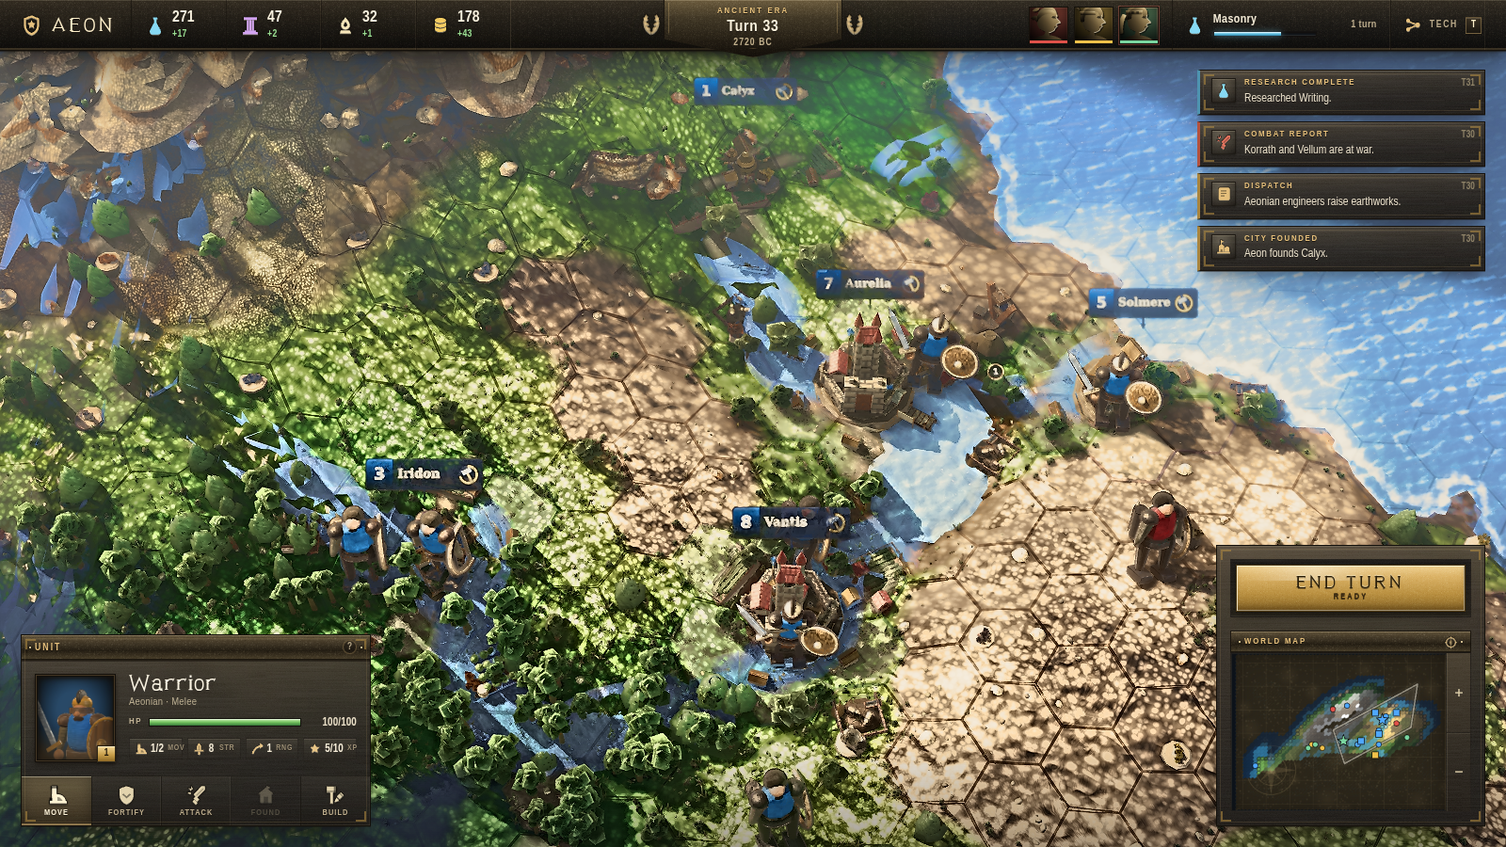
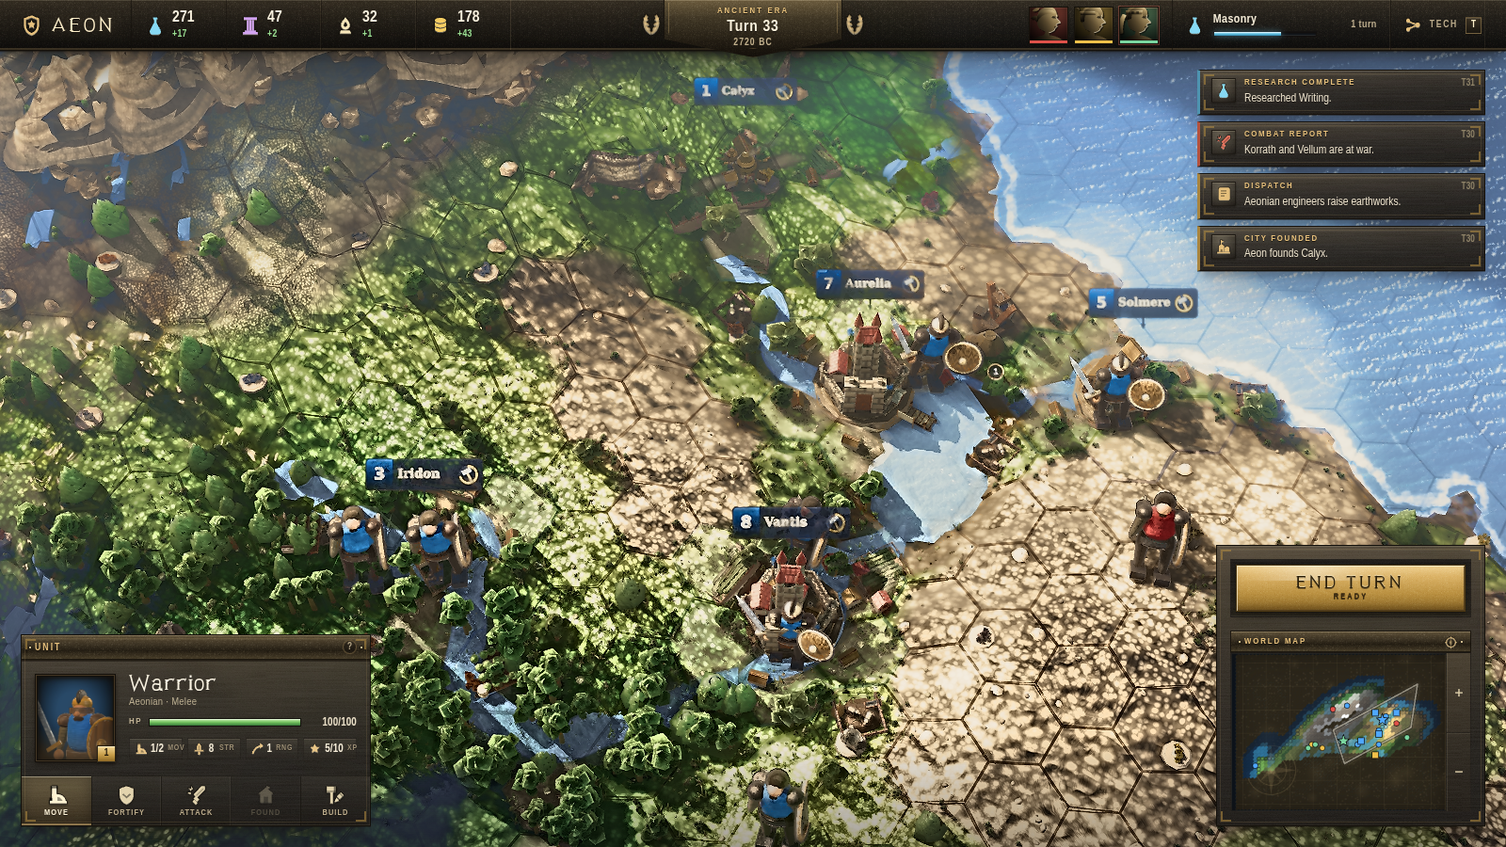
release: re-shot hero/wide/close from the champion build, and an honest status for the tournament gate

diff --git a/docs/RESUME.md b/docs/RESUME.md
@@ -1,108 +1,133 @@
-# Resume notes — paused 2026-08-25 (end of phase 10)
+# Resume notes — paused 2026-08-25 (end of phase 11)
 
 ## State
-The referee scores the whole frame on six independent axes. Standing frame at HEAD:
+The gate is a **tournament**, not a score. Each attempt is rendered at 1600x900, put side by side
+with the reigning champion frame, and shown to two independent judges with the labels in opposite
+order so position cannot bias them. It is accepted only if **both** judges pick the challenger;
+otherwise `git` reverts it and the champion stands. There is no current score and no referee —
+absolute scoring was retired at the start of this phase (see *Why scoring was retired*).
 
-| axis | score | what it measures |
-|---|---|---|
-| lighting | **20** / 30 | cast shadows landing, contact AO, one unifying sun, shadow hue near the lit hue |
-| material | **8** / 20 | world-space detail shrinking with distance, no confetti, no flat-matte |
-| readability | **9** / 15 | hex grid legible everywhere incl. mountains, biomes distinguishable |
-| units | **6** / 15 | silhouettes nameable at gameplay zoom, grounded, not clay |
-| colour | **6** / 10 | palette compliance, no cast, aerial perspective lighter-cooler-desaturated |
-| finish | **8** / 10 | no mesh holes, blown voids, aliasing, streaks, z-fighting, clipped UI |
-| **total** | **57** / 100 | best recorded; scored on `shots/verify-57.png`, which is the same build as the released frames |
-
-- `node tools/sim.mjs` passes: 260 turns, 26 cities, pop 4->341, 57 units, the 32-tech tree exhausted by
-  three of four civs, 11 wars and 6 peaces, 14449 pathed tiles with 0 read through fog,
-  culture victory to Vellum. Worst turn 15 ms.
-- `npx vite build` succeeds; GitHub Actions rebuilds `dist/` on push and deploys it.
+- Champion build = `HEAD` (`74ecef7`). Champion frame = `shots/final-hero.png`; the local
+  `shots/champion.png` is the same build and framing (gitignored, so the released hero frame is the
+  copy that travels).
+- `node tools/sim.mjs` passes: 260 turns in 3.3 s (worst turn 13 ms), 26 cities, pop 4->341, 57
+  units, the 32-tech tree exhausted by three of four civs, 11 wars and 6 peaces, 14449 pathed tiles
+  with 0 read through fog, culture victory to Vellum.
+- `npx vite build` succeeds: 25 modules, 1289 kB / 394 kB gzipped, 0.5 s. GitHub Actions rebuilds
+  `dist/` on push and deploys it.
 - Released frames: `shots/final-hero.png`, `shots/final-wide.png`, `shots/final-close.png`
   (1600x900, directed via `?shot=hero|wide|close`; each captured `blank:false errors:[]`).
-- The objective gate still **FAILS** on the released frame:
+- The objective gate still **FAILS**, but on three counts instead of seven:
 
   `node tools/metrics.mjs shots/final-hero.png 200,120,200,140:far-rock 700,430,200,140:mid-sand
   620,700,240,160:near-sand 1200,300,240,160:water`
 
   | region | mean | sat | hue | HF_rms | MID/HF |
   |---|---|---|---|---|---|
-  | far-rock | 121.3 | 0.317 | 34.5 | 14.64 | 1.00 |
-  | mid-sand | 100.0 | **0.460** | 65.5 | **23.69** | 1.10 |
-  | near-sand | 116.8 | **0.467** | 51.5 | **22.61** | **1.36** |
-  | water | 131.1 | 0.421 | 209.2 | **3.52** | **3.92** |
+  | far-rock | 115.3 | 0.290 | 33.1 | 14.12 | 1.01 |
+  | mid-sand | 97.2 | 0.430 | 66.9 | **23.70** | 1.07 |
+  | near-sand | 117.6 | 0.436 | 52.1 | **22.98** | **1.36** |
+  | water | 129.2 | 0.380 | 210.2 | 9.09 | 1.19 |
 
-  near/far HF ramp **1.54** (need >= 1.6) - crushed 0.07 - blown 0.00. Seven failures: mid-sand and
-  near-sand HF over the 22 confetti ceiling, near-sand MID/HF over 1.3 (blurry blobs), near-sand
-  saturation over the 0.46 ceiling, water HF under the 7 floor and its MID/HF at 3.92 (a flat sheet
-  with no material at all), and the ramp. Clipping and shadow-hue coherence are the two things that
-  pass cleanly. The water box lands on open sea clear of the notification rail — check that before
-  trusting any number from it.
+  near/far HF ramp **1.63** (need >= 1.6) — passing for the first time in the project — crushed
+  0.08, blown 0.00. The three remaining failures are all near-camera ground: mid-sand and near-sand
+  HF over the 22 confetti ceiling, near-sand MID/HF over 1.3. Water, land saturation, the ramp and
+  both ends of the histogram now pass clean. The water box lands on open sea clear of the
+  notification rail — check that before trusting any number from it.
 
-## Outstanding defects, in referee priority order
-1. **Ground material is screen-space, not world-space** (material 8/20, the weakest axis). The
-   referee measured the near/far HF ramp at 1.34–1.59 across its own boxes against the 1.6
-   requirement, near sand and hills at HF 26–29 (confetti), and the far plain collapsed the other way
-   to HF 5 at MID/HF 2.13 (blurry nothing); the gate's standard boxes on the released frame give ramp
-   1.54 and near/mid sand HF 22.6/23.7. Both ends are the same bug: detail drawn at pixel scale
-   instead of at a fixed world size. One triplanar world-space detail set with honest mips fixes both
-   at once — per-region noise never will.
-2. **The hex grid vanishes across the mountain band** — roughly a third of the frame with no
-   clickable tile boundary. Art-bible non-negotiable #1, and still broken after five dedicated
-   passes. Terrain must leave value headroom, the grid must adapt alpha to the surface, post must
-   crush neither.
-3. **Mountains are intersecting flat shards.** Hard polygon seams, adjacent faces disagreeing about
-   the sun direction, paper-white snow caps and a milky near-white void at the summits. Light
-   describes no volume up there.
-4. **Land saturation runs hot against the locked palette.** Grass measures 0.45–0.55 against the
-   bible's 0.30–0.42, sand 0.42–0.47 against desert's 0.24–0.34, and open ocean sits at coast
-   brightness instead of #123A63. The palette is documented; it is simply not being hit.
-5. **Rivers read as hard-edged unlit cyan cutouts** with a translucent slab over the tiles. Bed the
-   channel into the terrain, light it, delete the slab.
-6. **Units still do not name themselves at gameplay zoom** (6/15, up from 3/15). In
-   `final-close.png` the figures resolve into sword-and-shield soldiers; in `final-hero.png` — the
-   distance a player actually plays at — an occupied tile is a strength badge and a contact ring
-   over a mound.
+  For reference, the phase 10 release measured seven failures: ramp 1.54, water HF 3.52 at
+  MID/HF 3.92, near-sand sat 0.467, mid/near-sand HF 23.69/22.61, near-sand MID/HF 1.36.
+
+## Phase 11: the tournament, and what it unstuck
+
+| pass | outcome |
+|---|---|
+| terrain/post — restore the massif palette + world-space summit structure the score gate had reverted | restored by hand (`6a17231`); this is the change that triggered the switch |
+| terrain — rock gets its mineral chroma back, one warm family, strata stay value | accepted (`6fa36aa`) |
+| water — a pixel band the sea can keep, glitter back in its lobe, the river's gravel slab becomes a wet margin | accepted (`1d9da36`) |
+| massif — one closed summit mass per hex welded to the hex field, real instance normals, snow off the tonemap shoulder, a hex seam that survives on rock | accepted, **promoted to champion** (`a1d024f`) |
+| units — helmet over the head, sword off the float, shield fitted, idle facing, no TAA ghosting | **lost the tournament, reverted whole** (`74ecef7`) |
+
+Three of the four passes actually gated by a tournament landed, on defects that had eaten nine
+straight attempts under scoring — mountains, terrain material and water each failed alone in phases
+8-10 and each landed here.
+
+### Why scoring was retired
+The referee's per-axis noise was about a point and its whole-frame noise about three, which is the
+size of a real improvement. Twice that noise threw away the best frame the project had rendered and
+both had to be restored by hand: `14fb0ff` (units a2, discarded by phase 9's strict no-axis-drop
+rule) and `6a17231` (the massif palette + summit structure, discarded by phase 10's 1-point axis
+slack over readability noise). A gate that has to be manually overruled twice is not a gate.
+
+Paired comparison removes the number entirely and asks the question the project is actually judged
+on. It is far less noisy, and it has one property worth planning around: **a change that improves
+one thing while visibly costing another will lose two votes.** The units pass was reverted whole for
+that — the cast improved and something else in the frame did not survive the trade. Aim for a frame
+that is unambiguously better everywhere, and change less rather than more.
+
+## Outstanding defects, in priority order
+Judge verdicts are not archived — only the accept/revert decision reaches git — so this list is what
+the champion frame and the objective gate show, with the pass that lost the last comparison first.
+
+1. **Units are giants with no arms.** The one pass since the champion was crowned was a units pass
+   and it lost. Scale is the loudest part: in `final-close.png` the garrison soldier stands as tall
+   as Aurelia's keep tower, and in `final-wide.png` a single soldier is the height of the walled
+   town beside him. His sword and shield hang at his sides with no arm reaching either one. At
+   gameplay distance the same figure collapses to a strength badge and a contact ring over a mound.
+   Two things to know before re-trying this: the three commits still in history at `07601c1` fixed
+   the helmet, the sword and the shield and still lost the comparison, so find what else they cost;
+   and none of them touched scale. The one attempt that did (`33dec79`, "a soldier is smaller than
+   the keep he garrisons") was reverted under phase 9's Pareto gate and has never been re-run
+   against a tournament.
+2. **The near field is confetti over blobs.** All three surviving gate failures are in the two sand
+   boxes nearest the camera: HF 23.70 and 22.98 against a 22 ceiling, MID/HF 1.36 against 1.3. The
+   distance falloff is finally fixed (ramp 1.63), so this is no longer the old "screen-space
+   material" bug across the whole frame — it is one band. Near ground reads as leopard-spot
+   mottling at cloud-shadow scale with pixel fizz on top, instead of grain at a nameable world size.
+3. **Mountains are the right shape on the wrong rock.** The massif pass gave them a closed summit
+   mass per hex, correct instance normals and a hex seam that survives on rock — all new, all real.
+   They now read as tan sandstone wedges: far-rock measures sat 0.29 at hue 33 against the locked
+   mountain `#7A7368` (sat 0.08-0.18), shard edges stay hard, and the snow caps are flat
+   paper-white triangles rather than lit volume.
+4. **Per-biome palette compliance.** Whole-frame saturation is inside the metrics band now, but the
+   bible is written per biome and sand at 0.43 is well over desert's 0.24-0.34. Open ocean at mean
+   129 is nearer coast brightness than the specified `#123A63`.
+5. **Rivers.** The translucent slab is thinner and the bank is a wet margin now, but the channel is
+   still a chain of flat angular plates laid along the hex edges rather than a bed cut into the
+   terrain, and it takes no sun. Green props also intersect it in the Aurelia reach.
+6. **The hex seam on rock is present but faint.** Non-negotiable #1 is no longer outright broken
+   across the mountain band, which is new — but the line there is far weaker than on grass and it
+   loses wherever the rock goes bright.
+
+No one has yet put the champion frame beside a real Civ VI screenshot under tournament rules. The
+last time that comparison was run the judge picked the real one immediately, and nothing here
+suggests that has changed.
 
 ## What is working — do not re-roll it
-One unifying warm key with the shadow hue within 1–3° of the lit hue; correct aerial perspective on
-land; the hex grid on grass, sand and plains; coast foam; the Aurelia keep silhouette; the HUD with
-zero clipping; crushed 0.07 / blown 0.00.
-
-## Phase 10: the gate loosened, and the best frame came back
-Phase 9's gate — accept only if **no axis drops and one gains ≥ 2** — had reverted the best frame
-the project ever rendered (units a2: +8 total across three axes, −1 material). Phase 10 replaced it
-with a bounded trade: **accept if the total gains ≥ 3 and no axis drops by more than 1**, judge
-noise being worth about a point.
-
-| pass | attempts | outcome |
-|---|---|---|
-| units (restore a2) | 1 | **accepted**, 49 → **57** — units 3 → 6, lighting 18 → 20, finish 5 → 8, material 9 → 8 |
-| mountains | 3 | all reverted (`c2178e0`) |
-| terrain/post material | 3 | all reverted (`f925287`) |
-| water | 3 | all reverted (`ea993fb`) |
-
-The loosened gate did exactly one thing and did it well: it let back in a change the strict rule had
-thrown away, worth +8. It then held against nine attempts on the three biggest defects, none of
-which cleared +3. Attempt frames are kept as `shots/p10-<pass>-a<n>.png` next to
-`shots/revert-check-<pass>.png`, so the next phase can see what has already been tried on mountains,
-material and water before trying it again.
+One unifying warm key with the shadow hue within a couple of degrees of the lit hue; correct aerial
+perspective on land; the hex grid on grass, sand and plains; coast foam and the shore read; the open
+sea's swell band and its glitter lobe (new this phase, and the water region passes the gate for the
+first time); the massif's closed summit masses; the Aurelia keep silhouette; the HUD with zero
+clipping; crushed 0.08 / blown 0.00.
 
 ## What was learned (do not re-litigate)
-- Parallel agents on shared visual files oscillate: phases 1-6 went 61 → 34 → 22. Sequential
-  single-owner passes with a git revert gate produced the only monotonic gain (34 → 50 → 57).
-- One-sided metric targets get gamed: "HF_rms ≥ 12" was met by spraying per-pixel noise.
+- Parallel agents on shared visual files oscillate: phases 1-6 went 61 -> 34 -> 22. Sequential
+  single-owner passes with a git revert gate produced the only monotonic gain.
+- One-sided metric targets get gamed: "HF_rms >= 12" was met by spraying per-pixel noise.
   `tools/metrics.mjs` now bounds detail on both sides and requires a near/far detail ramp.
-- A gate has to be able to ratchet. A strict per-axis "no axis may drop" rule against a judge whose
-  per-axis noise is about ±1 rejects every real trade — it cost this project its best frame for two
-  phases. Bounded trade (Σ ≥ +3, no single axis worse than −1) ratchets without letting an axis be
-  quietly sold off.
-- Three consecutive passes reverting nine of nine attempts is the gate working, not the gate stuck —
-  but it also says the remaining defects are not one-file fixes. Mountains, material and water each
-  failed alone; the ranked list above is coupled (grid legibility depends on terrain value headroom,
-  which depends on the grade).
+- **A scoring gate is only as good as its noise floor.** A judge with +-3 on the total cannot
+  adjudicate a +2 change; it will reject real work and occasionally accept regressions. Every
+  variant of the score gate this project tried — no-axis-drop, Pareto, bounded trade — was an
+  attempt to work around noise it could not remove.
+- **Paired comparison removes the noise instead of budgeting for it.** "Which of these two is
+  better" is a far easier question than "how many points is this out of 100", and two judges with
+  the labels swapped kills position bias. Phase 11 accepted three passes on defects that had gone
+  0-for-9 under scoring.
+- The price of paired comparison is that partial wins lose. There is no "+3 total, -1 on one axis"
+  any more; anything visibly worse anywhere loses a vote and the attempt dies. Change less.
 - The screenshot harness must wait on rendered-frame count, not wall-clock: at ~1 fps under
-  software WebGL a timed wait captures an unconverged TAA frame, which produced dozens of
-  bogus "near-field is blurry" critiques.
+  software WebGL a timed wait captures an unconverged TAA frame, which produced dozens of bogus
+  "near-field is blurry" critiques.
 - `?nopost=1` renders the raw scene — the fastest way to tell a shading bug from a post bug.
 - The standard metrics boxes assume a 1600x900 capture. At the 1200x675 fast-loop size `620,760` is
   off-canvas and `1150,200` lands on the notification rail, so the gate silently measures UI.
@@ -112,3 +137,5 @@ material and water before trying it again.
    `setsid nohup npx vite --port 5173 --strictPort >/tmp/vite.log 2>&1 &`
 2. Confirm it renders: `node tools/shot.mjs shots/check.png 1600 900` (~2 min, waits for TAA convergence)
 3. Read `docs/ART-BIBLE.md` (LOCKED) and `docs/CONTRACT.md` before touching any renderer file.
+4. The frame to beat is `shots/final-hero.png`. Shoot the challenger at the same size and framing,
+   show both to two judges with the labels in opposite order, and keep it only if both pick it.

diff --git a/README.md b/README.md
@@ -73,50 +73,88 @@ generated a long run of bogus "the near field is blurry" critiques before anyone
 The **game** is done: a full match plays start to finish, the 260-turn headless simulation passes
 every invariant, and `npx vite build` ships a static bundle.
 
-The **renderer** is closer than it was, and still not there. A referee agent scores the frame against
-a real Civilization VI screenshot on six independent axes; the current frame stands at **57/100**:
+The **renderer** is closer than it was and still not there — but it moved this phase, after nine
+straight attempts that could not land anything. The reason was the gate.
 
-| lighting | material | readability | units | colour | finish | total |
-|---|---|---|---|---|---|---|
-| 20/30 | **8/20** | 9/15 | 6/15 | 6/10 | 8/10 | **57/100** |
+### Scoring is retired; the gate is a tournament
 
-What holds up: one unifying warm key with the shadow hue within a couple of degrees of the lit hue,
-correct aerial perspective on land, the hex grid on grass, sand and plains, coast foam, the keep
-silhouette, a HUD with no clipping anywhere, and clean ends of the histogram — 0.07 of the frame
-crushed, none of it blown.
+For ten phases a referee agent scored the frame 0–100 against a real Civilization VI screenshot on
+six axes, and a change was kept if the number went up. The problem was noise — about a point per
+axis and about three on the total, which is the size of a real improvement. Twice the score gate
+threw away the best frame the project had ever rendered and both had to be restored by hand
+(`14fb0ff`, `6a17231`); three consecutive phases then reverted nine attempts out of nine.
 
-What does not, in the referee's priority order:
+Every attempt is now put **side by side against the reigning champion frame** and shown to two
+independent judges, with the labels in opposite order so position cannot bias them. It is kept only
+if **both** judges pick the challenger. Nobody is asked for a number — they are asked the only
+question this project is actually judged on: which of these two is better.
 
-1. **Ground material is screen-space, not world-space.** The near/far detail ramp measures 1.54
-   against a 1.6 requirement, near and mid sand run HF 22.6 and 23.7 against a 22 confetti ceiling,
-   and the referee finds the far plain collapsed the other way, to HF 5 at MID/HF 2.13 — blurry
-   nothing. Both ends are one bug: detail drawn at pixel scale instead of at a fixed world size.
-   Weakest axis at 8/20.
-2. **The hex grid vanishes across the mountain band** — about a third of the frame with no clickable
-   tile boundary, in a game played by clicking tiles. Art-bible non-negotiable #1.
-3. **Mountains are intersecting flat shards.** Hard polygon seams, adjacent faces disagreeing about
-   where the sun is, paper-white snow caps and a milky near-white void where the summits should have
-   volume.
-4. **Land saturation runs hot against the locked palette** — grass measures 0.45–0.55 against a
-   0.30–0.42 spec, sand 0.42–0.47 against desert's 0.24–0.34 — and open ocean sits at coast
-   brightness instead of the specified `#123A63`.
-5. **Rivers read as hard-edged unlit cyan cutouts**, with a translucent slab laid over the tiles
-   instead of a channel cut into them.
-6. **Units still do not name themselves at gameplay zoom** (6/15, up from 3/15). Close up they
-   resolve into sword-and-shield soldiers; at the distance the hero frame is played at, an occupied
-   tile is a strength badge and a contact ring over a mound.
+One phase of evidence, so read it as a signal rather than a proof:
 
-Blind judging still picks the real Civ VI immediately, and the objective gate agrees:
-`tools/metrics.mjs` on the shipped `shots/final-hero.png` reports **FAIL** on seven counts. All of it
-is written up with the measurements behind it, in priority order, in `docs/RESUME.md`.
+| pass | outcome |
+|---|---|
+| terrain — rock gets its mineral chroma back | accepted |
+| water — a pixel band the sea can keep, glitter back in its lobe, the river's gravel slab becomes a wet margin | accepted |
+| massif — one closed summit mass per hex, real instance normals, snow off the tonemap shoulder | accepted, and **promoted to champion** |
+| units — helmet, sword, shield, idle facing | **lost, reverted whole** (`74ecef7`) |
 
-Ten phases in, the whole-frame score went 61 → 34 → 22 under parallel agents, then climbed to 50
-under sequential single-owner passes with a revert gate, and to 57 once that gate stopped rejecting
-every trade. The most useful thing in this repo may be that record: `docs/RESUME.md` documents which
-gate designs ratcheted and which stalled — including one so strict it discarded the best frame the
-project had ever rendered over a single point on a single axis, and the looser rule that had to put
-it back. The three passes since have reverted nine attempts out of nine: the remaining defects are
-coupled, and none of them is a one-file fix.
+Three of four passes landed, against nine straight failures under the score gate on the same
+defects. The objective gate agrees the frame moved: `tools/metrics.mjs` on the released hero frame
+went from **seven failures to three**.
+
+| check | phase 10 | now |
+|---|---|---|
+| near/far detail ramp (≥ 1.6) | 1.54 ✗ | **1.63 ✓** |
+| water HF_rms (7–15) | 3.52 ✗ | **9.09 ✓** |
+| water MID/HF (0.9–1.3) | 3.92 ✗ | **1.19 ✓** |
+| near-sand saturation (≤ 0.46) | 0.467 ✗ | **0.436 ✓** |
+| mid-sand HF_rms (≤ 22) | 23.69 ✗ | 23.70 ✗ |
+| near-sand HF_rms (≤ 22) | 22.61 ✗ | 22.98 ✗ |
+| near-sand MID/HF (≤ 1.3) | 1.36 ✗ | 1.36 ✗ |
+
+0.08 of the frame crushed, 0.00 blown — the ends of the histogram stay clean.
+
+The catch is the one a paired comparison is supposed to have: it punishes a change that improves one
+thing while visibly costing another, which is most changes. The unit pass was reverted whole for
+exactly that.
+
+### What is still weakest
+
+Judge verdicts are not archived — only the accept/revert decision reaches git — so this is the
+outstanding list as the champion frame and the objective gate show it, with the pass that lost the
+last comparison at the top. `shots/final-hero.png` **is** the champion frame; it is what the next
+challenger has to beat.
+
+1. **Units are giants with no arms.** The one pass since the champion was crowned was a units pass,
+   and it lost. In `final-close.png` the garrison soldier stands as tall as Aurelia's keep tower,
+   and his sword and shield hang at his sides with no arm reaching either one; in `final-wide.png`
+   a single soldier is the height of the walled town beside him. Back at the distance the hero
+   frame is played at, the same figure collapses to a strength badge and a contact ring over a
+   mound — too big to be a man, too vague to be a warrior.
+2. **The near field is confetti over blobs.** All three surviving gate failures are in the two sand
+   boxes nearest the camera: HF 23.7 and 23.0 against a 22 ceiling, MID/HF 1.36 against 1.3. The
+   distance falloff is fixed — the ramp passes at 1.63 for the first time in the project — but near
+   ground still reads as leopard-spot mottling at cloud-shadow scale with pixel fizz on top,
+   instead of grain at a nameable world size.
+3. **Mountains are the right shape on the wrong rock.** The massif pass gave them a closed summit
+   mass per hex, correct instance normals and a hex seam that survives on rock — all new, all real
+   gains. They now read as tan sandstone wedges: the far-rock box measures saturation 0.29 at hue
+   33° against the locked mountain `#7A7368` (sat 0.08–0.18), shard edges stay hard, and the snow
+   caps are flat paper-white triangles rather than lit volume.
+4. **Per-biome palette compliance.** Whole-frame saturation now sits inside the metrics band, but
+   the bible is written per biome and sand at 0.43 is still well over desert's 0.24–0.34. Open
+   ocean at mean 129 is nearer coast brightness than the specified `#123A63`.
+5. **Rivers.** The translucent slab is thinner and the bank is a wet margin now, but the channel is
+   still a chain of flat angular plates laid along the hex edges rather than a bed cut into the
+   terrain, and it takes no sun.
+6. **The hex seam on rock is present but faint.** Non-negotiable #1 is no longer outright broken
+   across the mountain band, which is new — but the line there is far weaker than on grass and it
+   loses wherever the rock goes bright.
+
+No one has yet put this frame beside a real Civ VI screenshot under the tournament rules; the last
+time that comparison was run, the judge picked the real one immediately. The measurements, the per-phase record and
+the gate designs that ratcheted versus the ones that stalled are in `docs/RESUME.md` — that record
+may still be the most useful thing in this repo.
 
 Contributions welcome — `docs/ART-BIBLE.md` (the locked direction) and `tools/metrics.mjs` (the
 objective gate) are the two things to read first.
